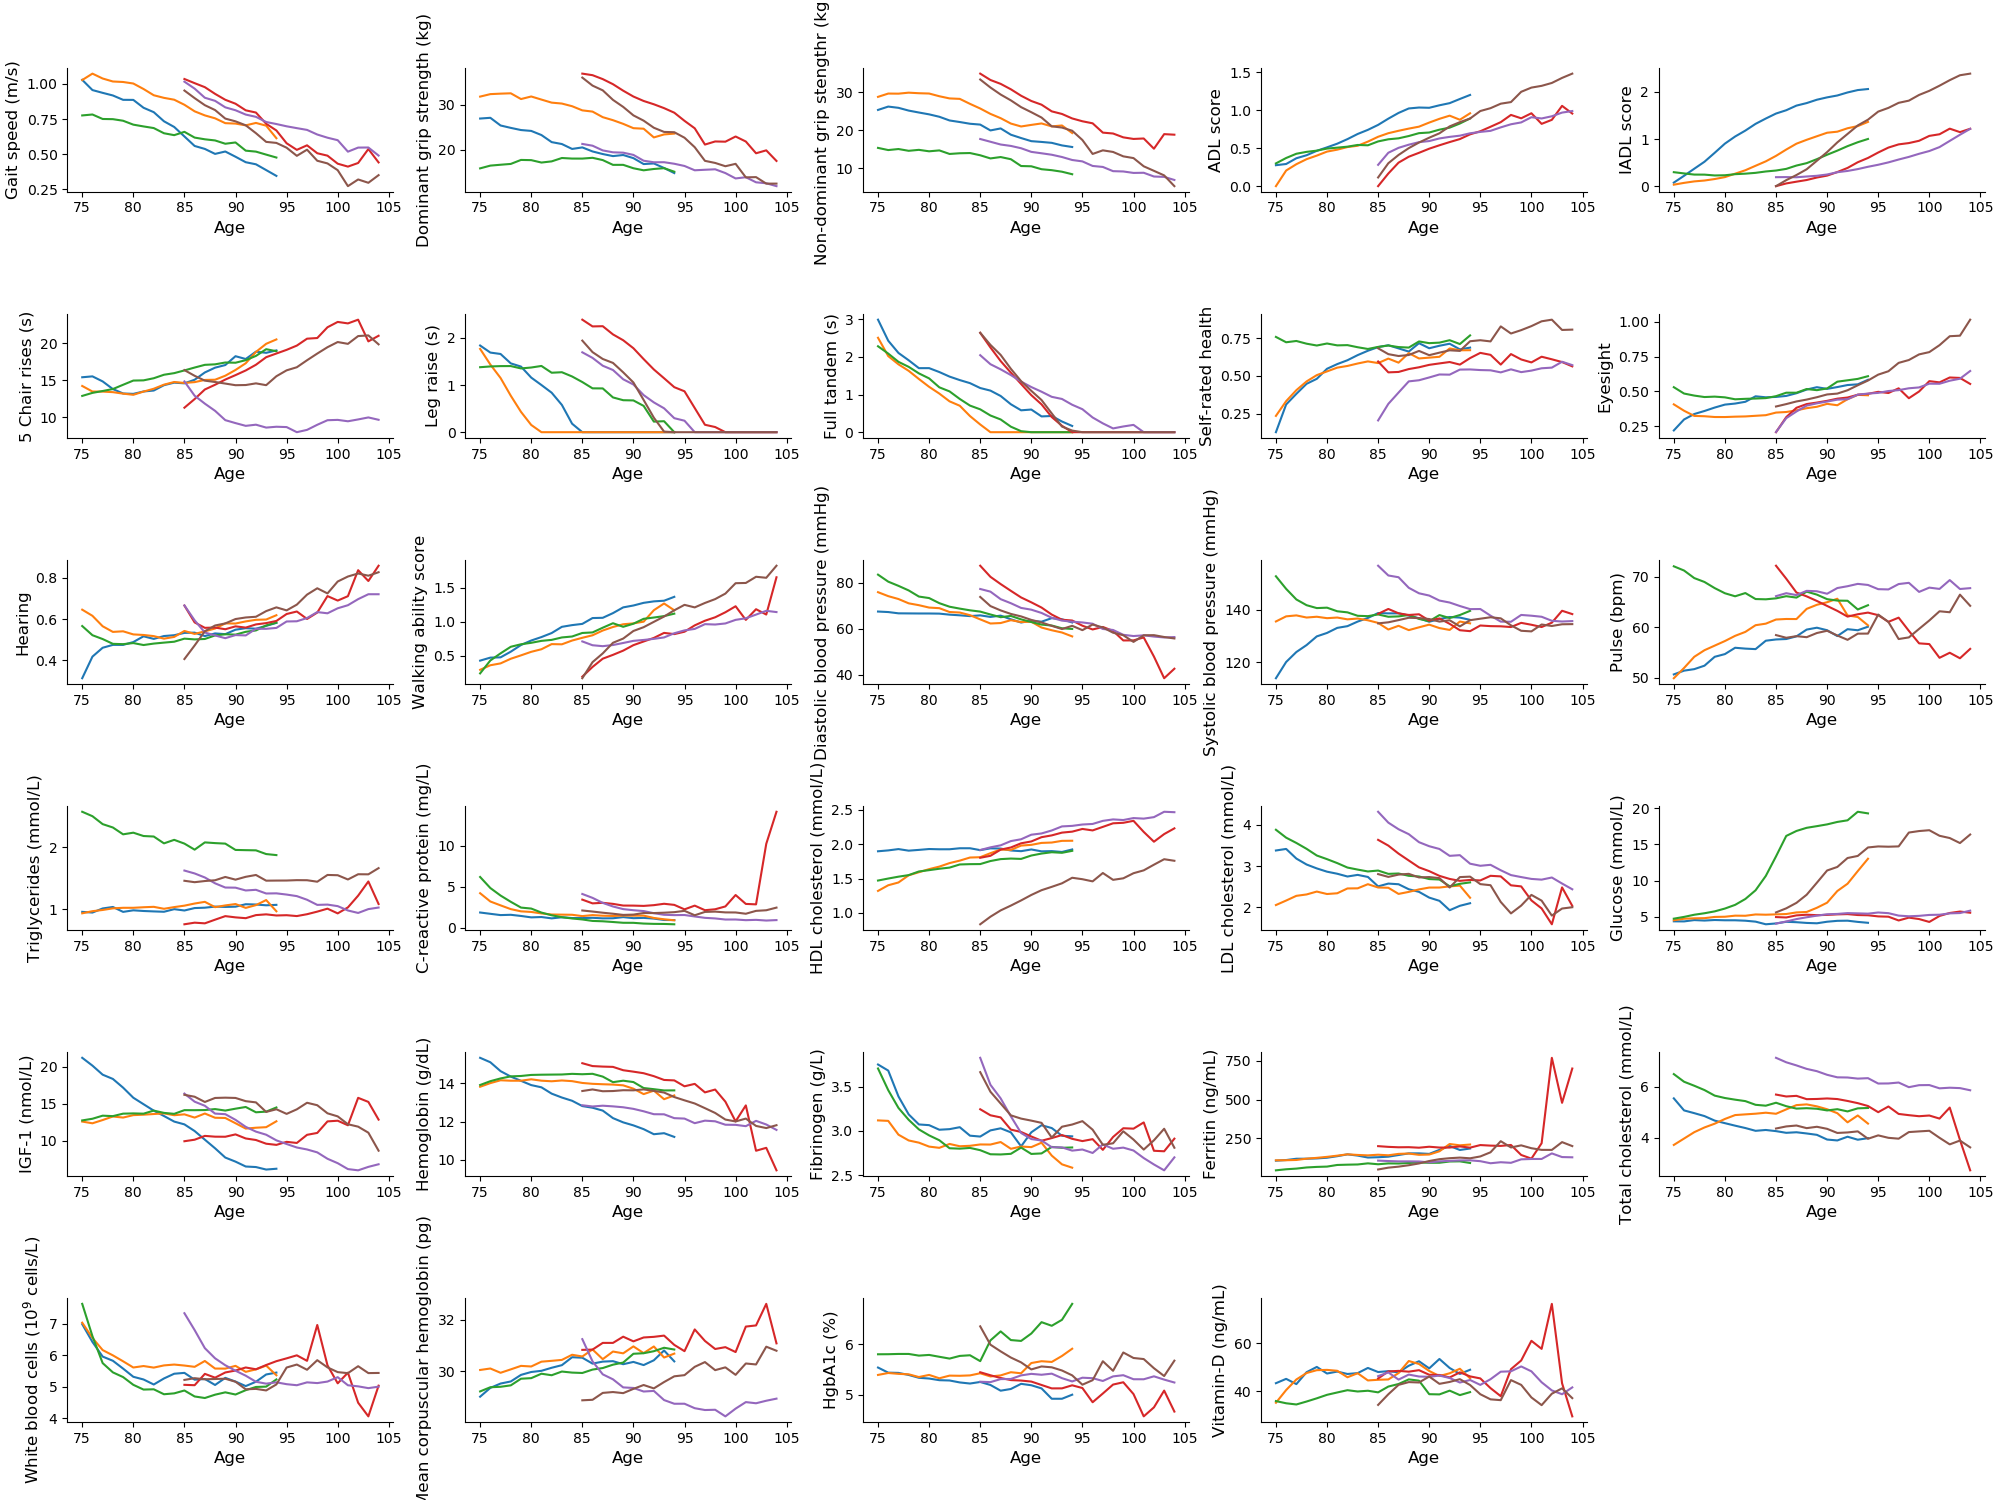
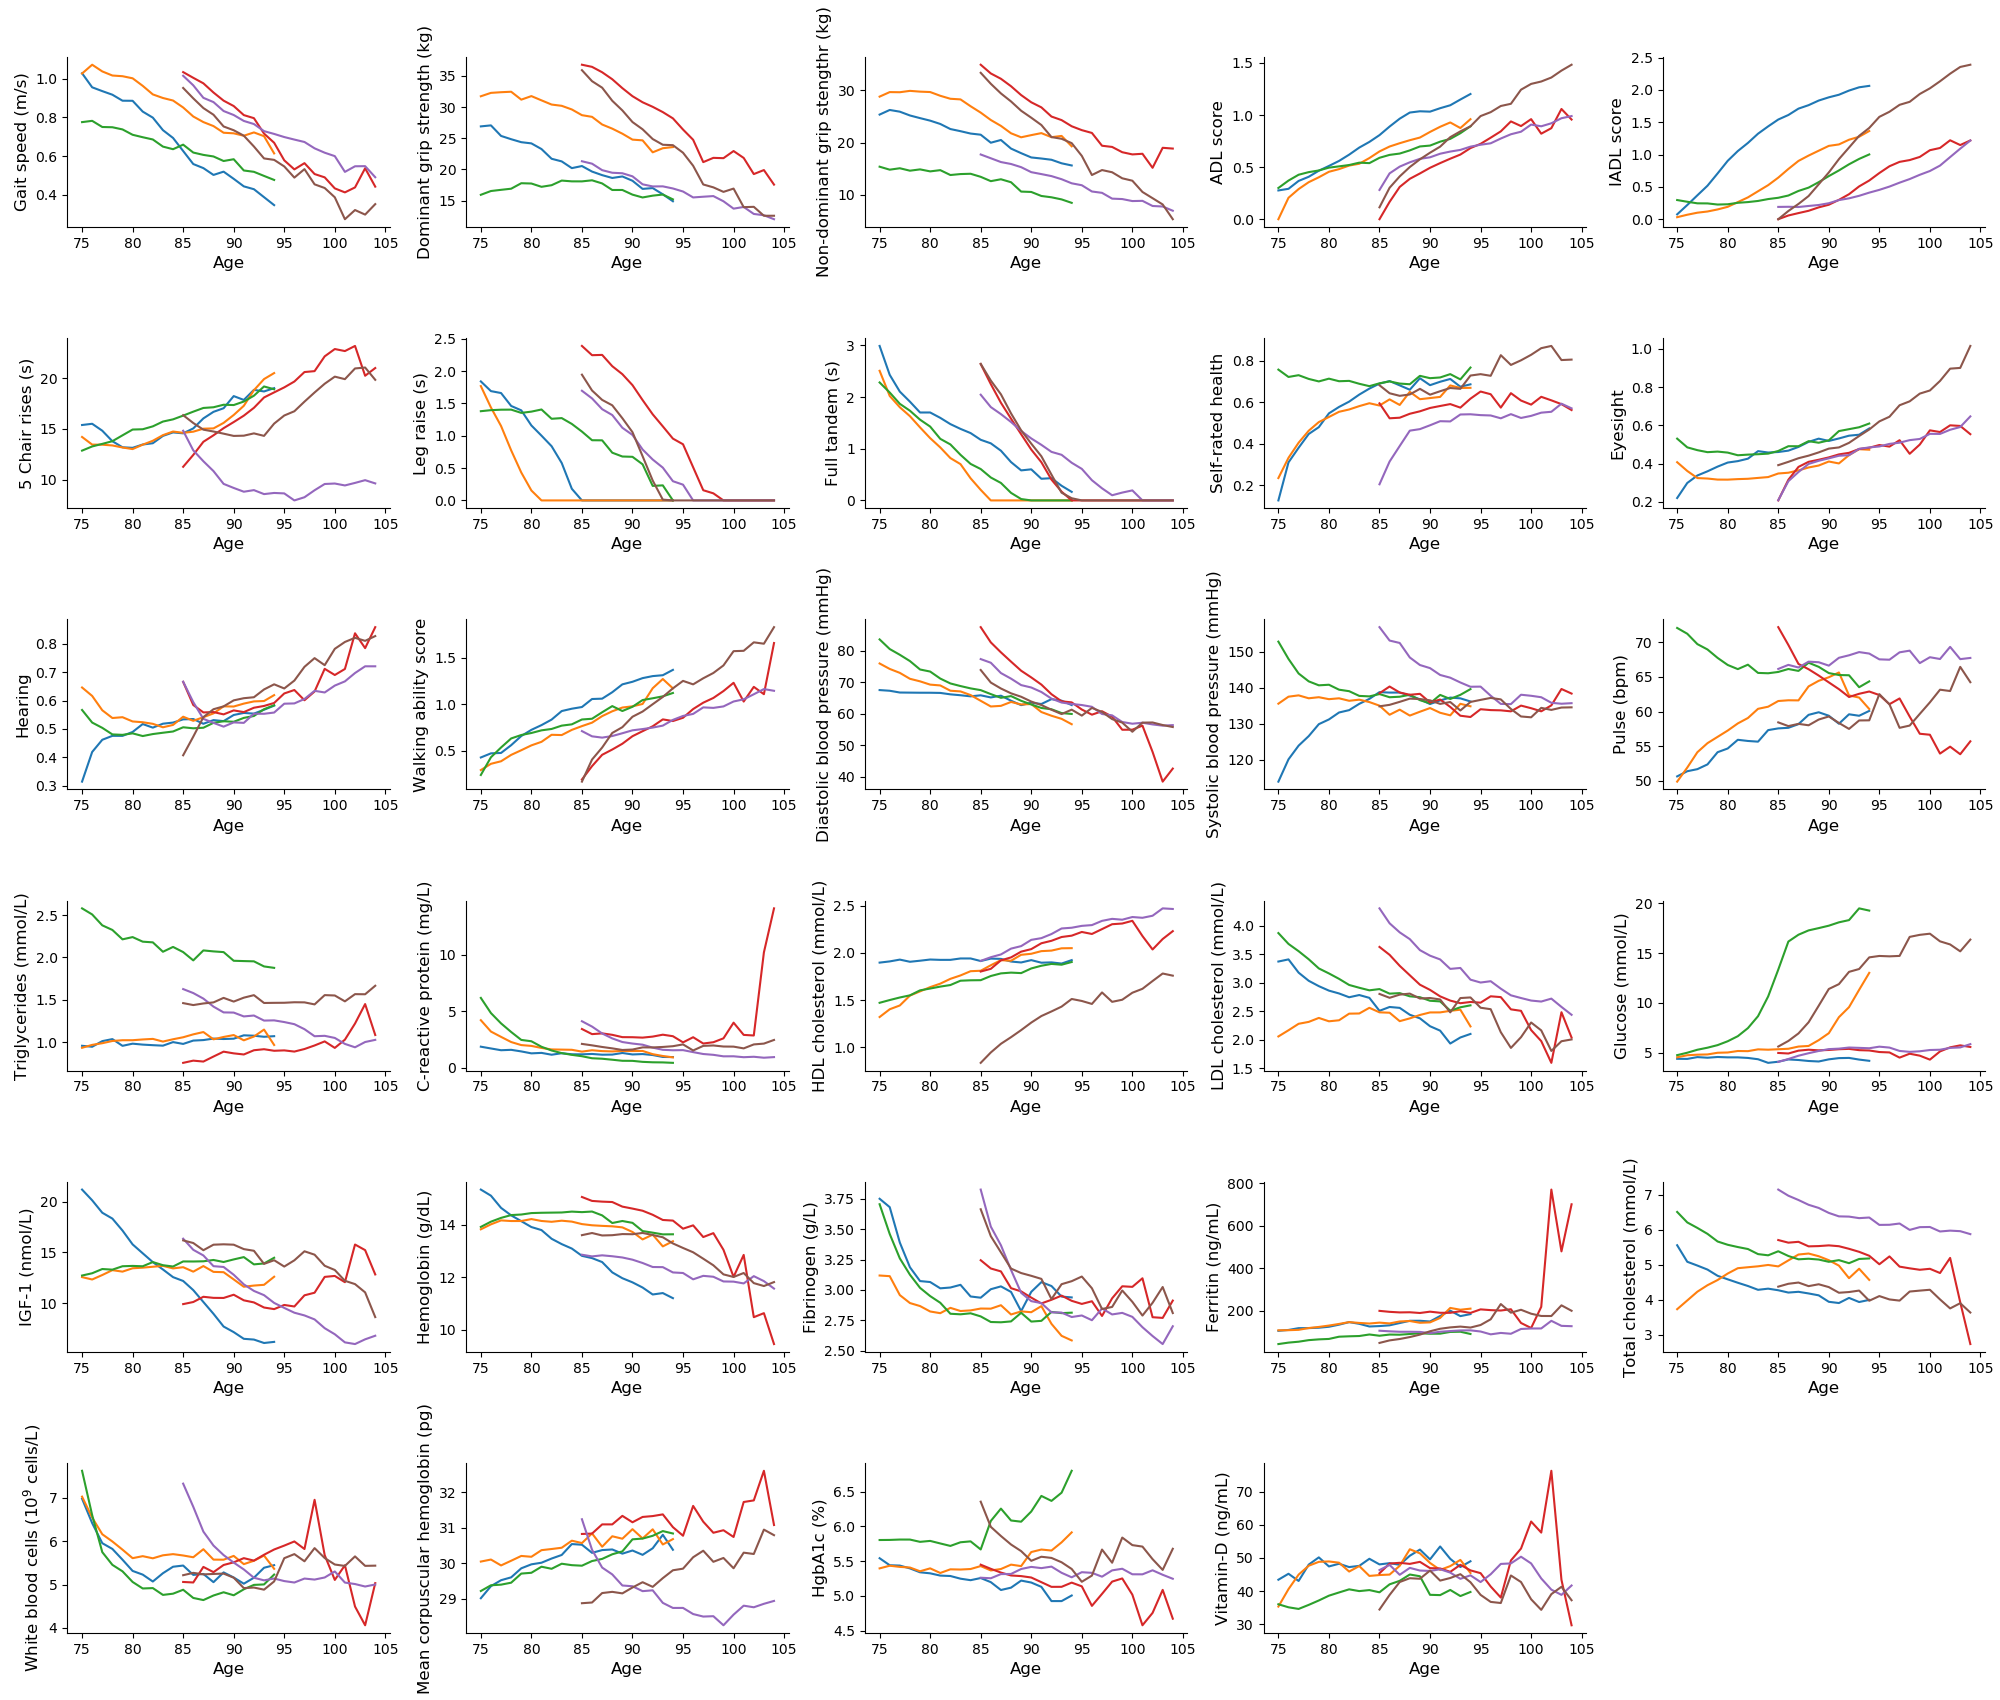
adding synthetic data figure

diff --git a/README.md b/README.md
@@ -20,7 +20,7 @@ After acquiring the dataset from https://www.elsa-project.ac.uk/accessing-elsa-d
 A synthetic dataset generated with this model is available at https://zenodo.org/record/4733386.
 
 <p align="center"> 
-<img src="synthetic_demo/synthetic_demo.png" width="700" height="525">
+<img src="synthetic_demo/synthetic_demo.png" width="700" height="600">
 </p>
 
 # Demo
